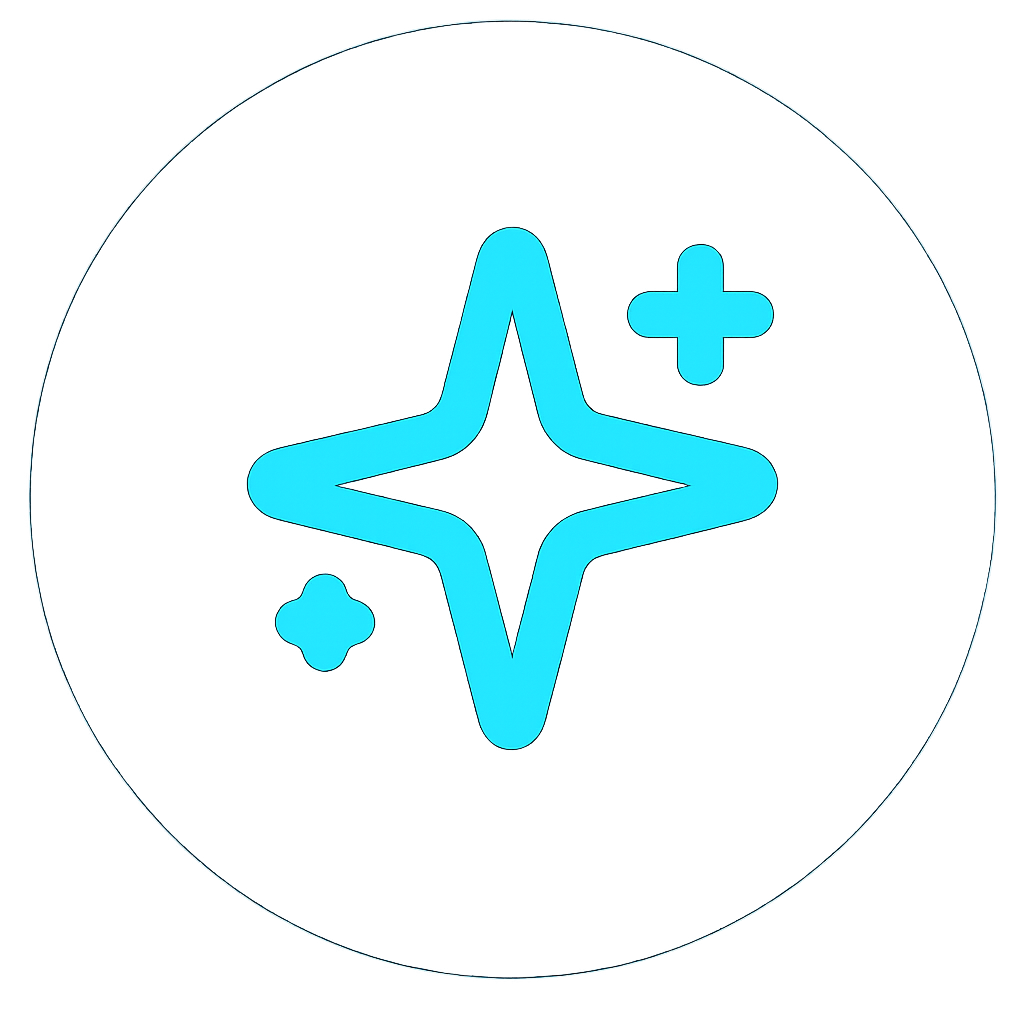
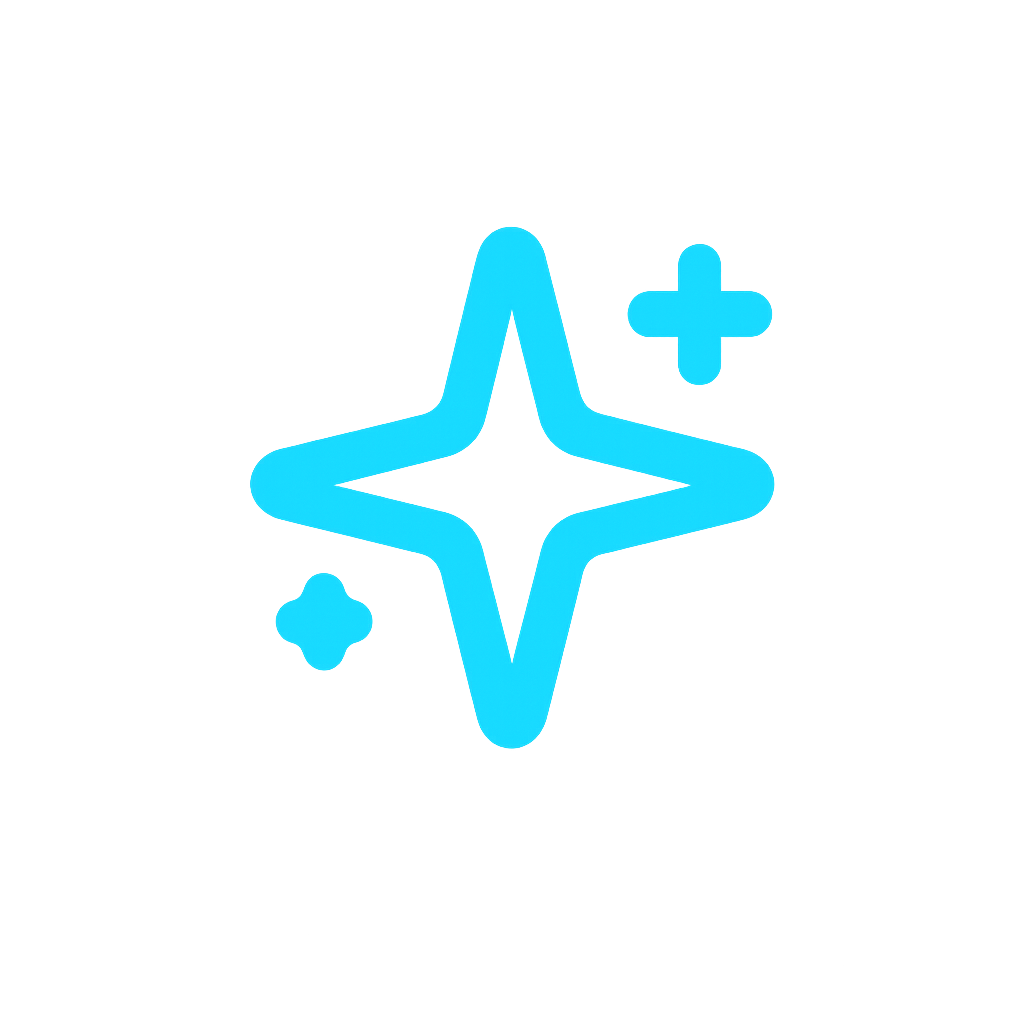
Word Game

diff --git a/CSS/index.css b/CSS/index.css
@@ -5,13 +5,14 @@
     padding: 0;
 }
 body{
-    height: 100vh;
-    font-family: 'Poppins', sans-serif;
+    height: 100dvh;
     background-color: rgba(0, 0, 0, 0.95);
     display: flex;
     justify-content: center;
     align-items: center;
     flex-direction: column;
+    overflow-x: hidden;
+    gap: 20px;
 }
 .star{
     width: 100px;
@@ -20,10 +21,47 @@ body{
     background-color: #002B36;
     border-radius: 50%;
     background-size: cover;
+    border: 2px solid #005266;
 }
-h1{
+.title{
     font-size: 6rem;
     color: white;
     font-family: "Bungee", sans-serif;
     font-weight: 400;
+}
+.paragraph{
+    width: 500px;
+    font-size: 1.5rem;
+    text-align: center;
+    font-family: "DM sans", sans-serif;
+    color: #FFFFFFB3;
+}
+.startBtn{
+    width: 300px;
+    height: 70px;
+    background-color: #0DCCF2;
+    display: flex;
+    justify-content: center;
+    align-items: center;
+    font-family: "DM sans", sans-serif;
+    font-size: 1.25rem;
+    font-weight: 600;
+    color: #000000;
+    cursor: pointer;
+    border-radius: 20px;
+    box-shadow: 0px 2px 20px rgba(13, 204, 242, 0.5);
+    gap: 10px;
+    margin-top: 20px;
+    transition: 0.3s;
+    text-decoration: none;
+}
+.playIcon{
+    width: 30px;
+    height: 30px;
+    background: url("../assets/playIcon.png");
+    background-size: cover;
+}
+.startBtn:hover{
+    box-shadow: 0px 4px 20px rgba(13, 204, 242, 0.8);
+    transform: translateY(-10px);
 }

diff --git a/HTML/nameInput.html b/HTML/nameInput.html
@@ -1,0 +1,14 @@
+<!DOCTYPE html>
+<html lang="en">
+<head>
+    <meta charset="UTF-8">
+    <meta name="viewport" content="width=device-width, initial-scale=1.0">
+    <title>WORD GAME</title>
+    <link rel="stylesheet" href="../CSS/nameInput.css">
+    <link rel="icon" href="../assets/wordGameIcon.png">
+    <link href="https://fonts.googleapis.com/css2?family=DM+Sans:wght@400;500;700&display=swap" rel="stylesheet">
+</head>
+<body>
+    
+</body>
+</html>

diff --git a/index.html b/index.html
@@ -10,6 +10,8 @@
     </head>
     <body>
         <div class="star"></div>
-        <h1>WORD GAME</h1>
+        <h1 class="title">WORD GAME</h1>
+        <p class="paragraph">The ultimate pass-and-play word challenge. Outsmart your opponent, guess the word, win the glory</p>
+        <a href="./HTML/nameInput.html" class="startBtn"><span class="playIcon"></span>START GAME</a>
     </body>
 </html>